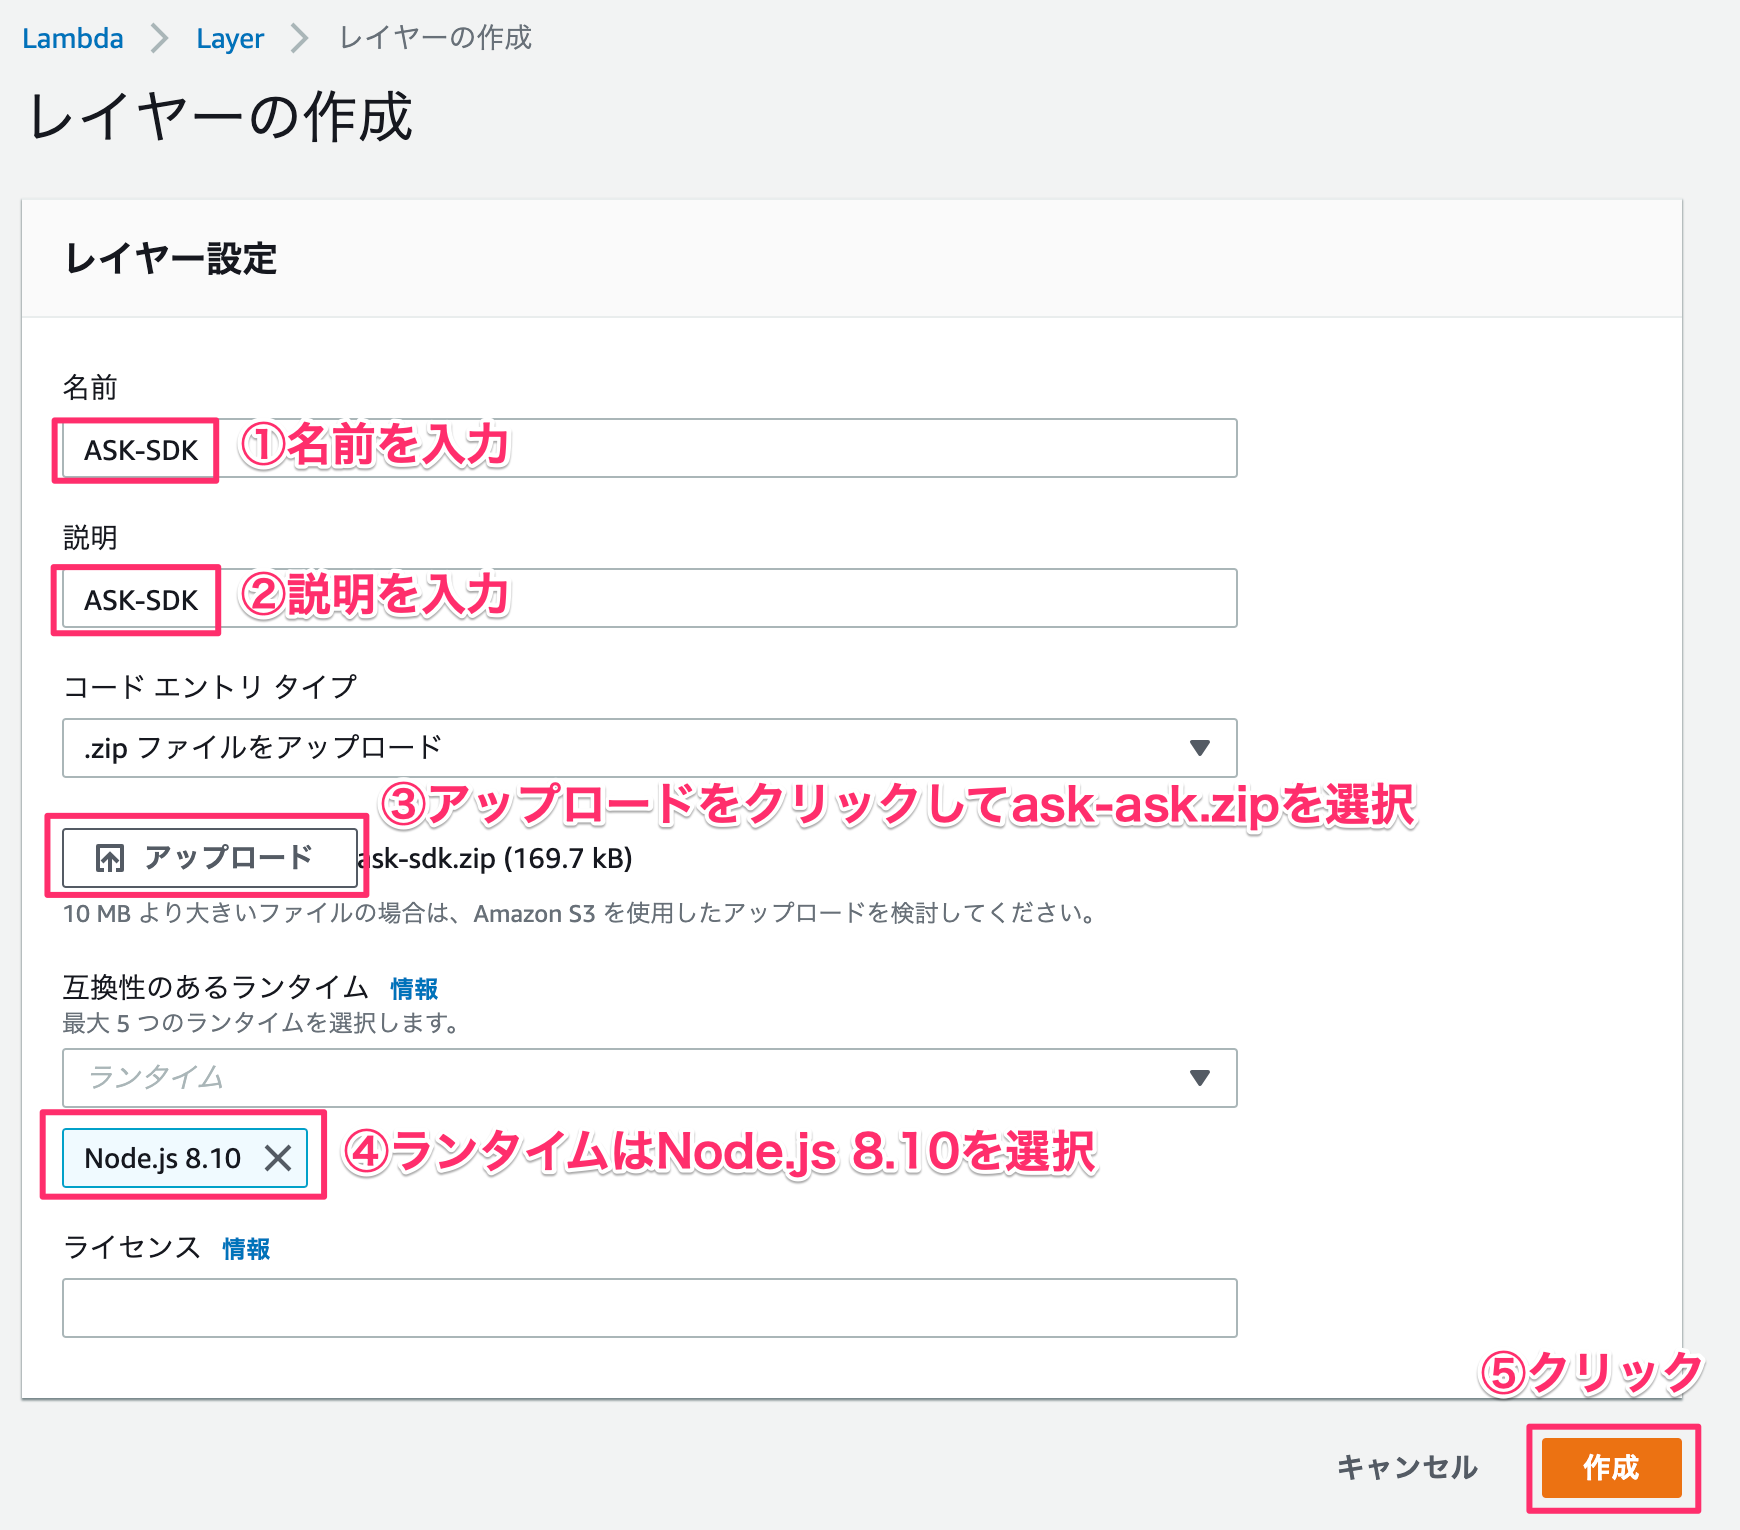
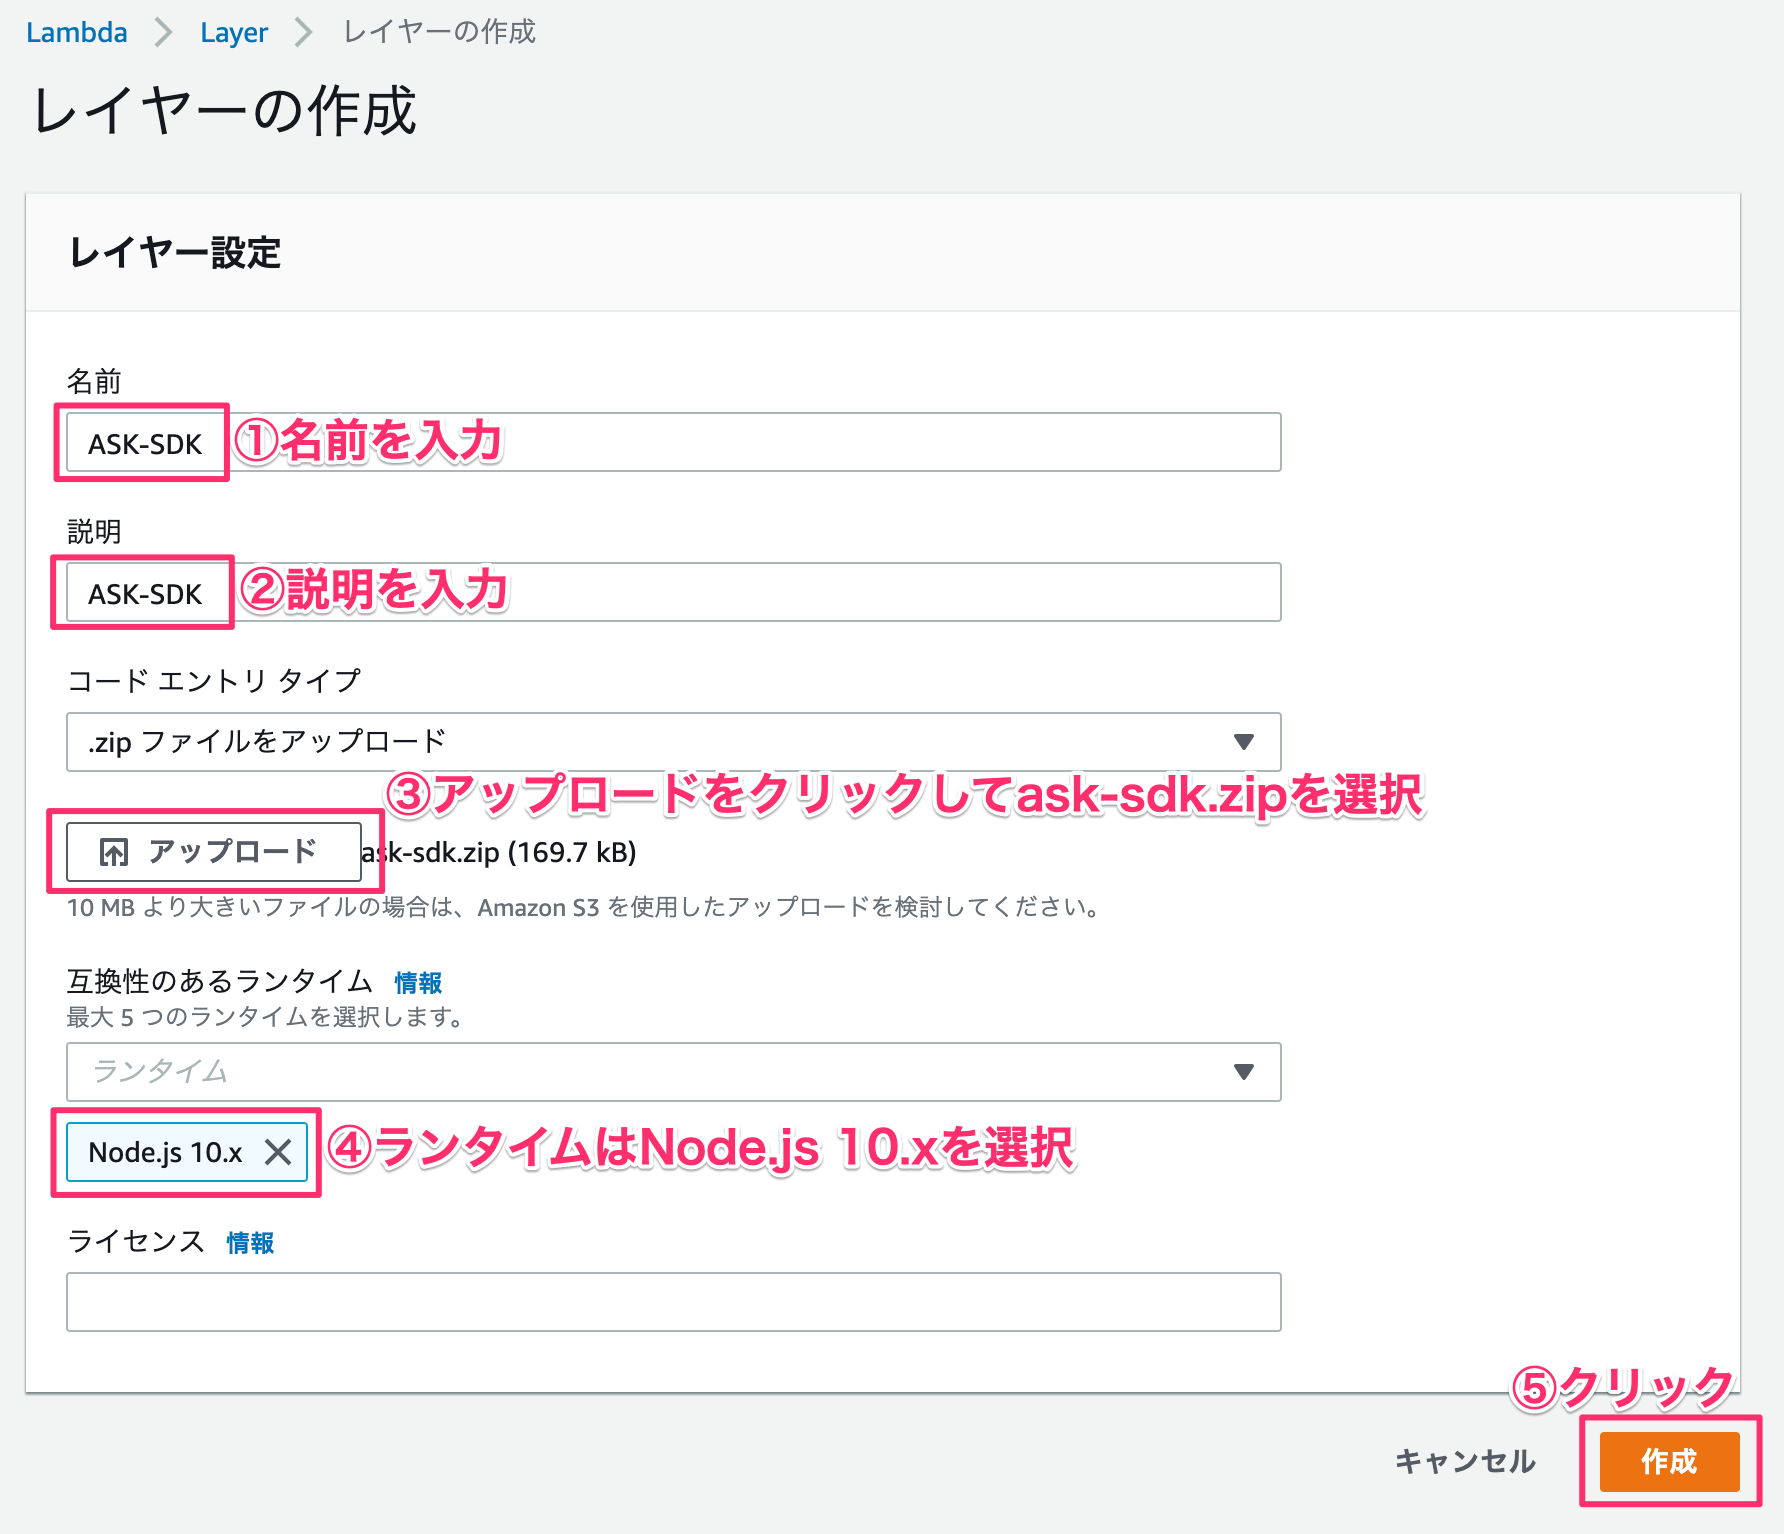
Node.js 10.xに更新

diff --git a/dist/index.html b/dist/index.html
@@ -161,7 +161,7 @@
 </td><td colspan="1" rowspan="1"><p>ask-sdk.zip</p>
 </td></tr>
 <tr><td colspan="1" rowspan="1"><p>ランタイム</p>
-</td><td colspan="1" rowspan="1"><p>Node.js 8.10</p>
+</td><td colspan="1" rowspan="1"><p>Node.js 10.x</p>
 </td></tr>
 </table>
 <p class="image-container"><img alt="s208" src="img/32ca8b77a516a0d0.png"></p>
@@ -175,7 +175,7 @@
 </td><td colspan="1" rowspan="1"><p>AmazonConnect-Alexa</p>
 </td></tr>
 <tr><td colspan="1" rowspan="1"><p>②ランタイム</p>
-</td><td colspan="1" rowspan="1"><p>Node.js 8.10</p>
+</td><td colspan="1" rowspan="1"><p>Node.js 10.x</p>
 </td></tr>
 <tr><td colspan="1" rowspan="1"><p>③実行ロール</p>
 </td><td colspan="1" rowspan="1"><p>AWSポリシーテンプレートから新しいロールを作成</p>
